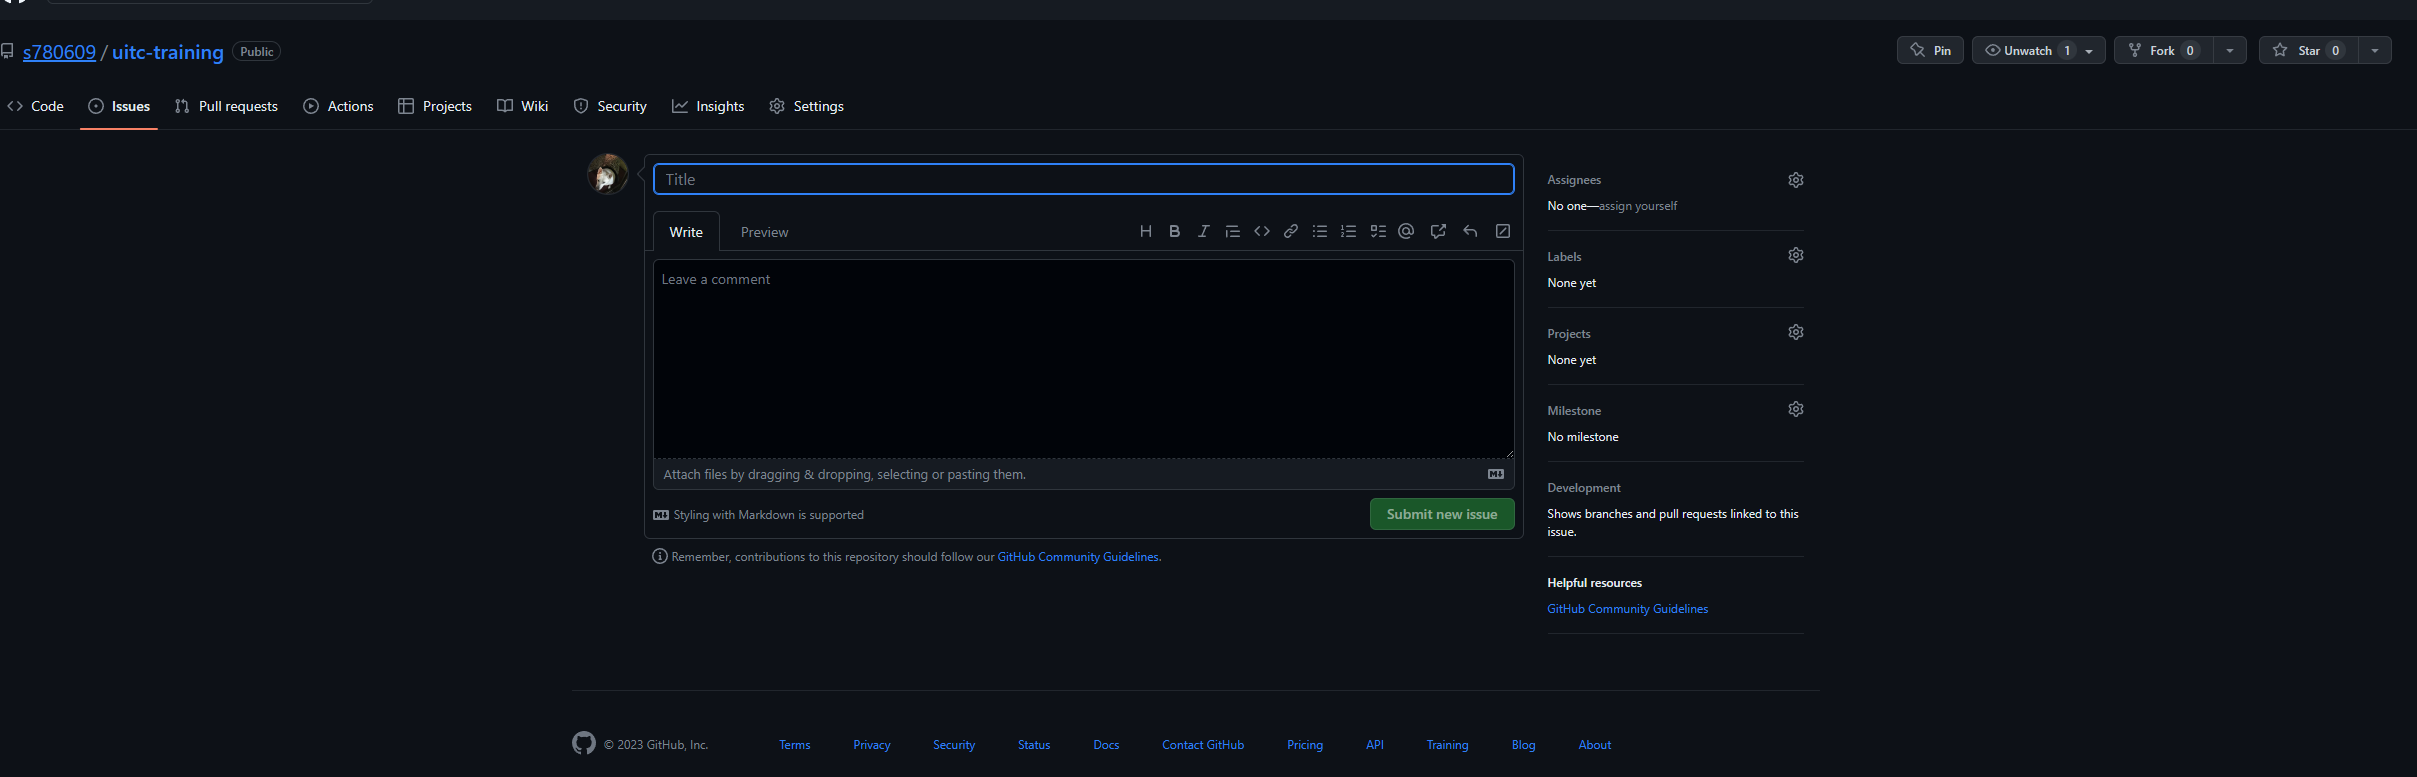
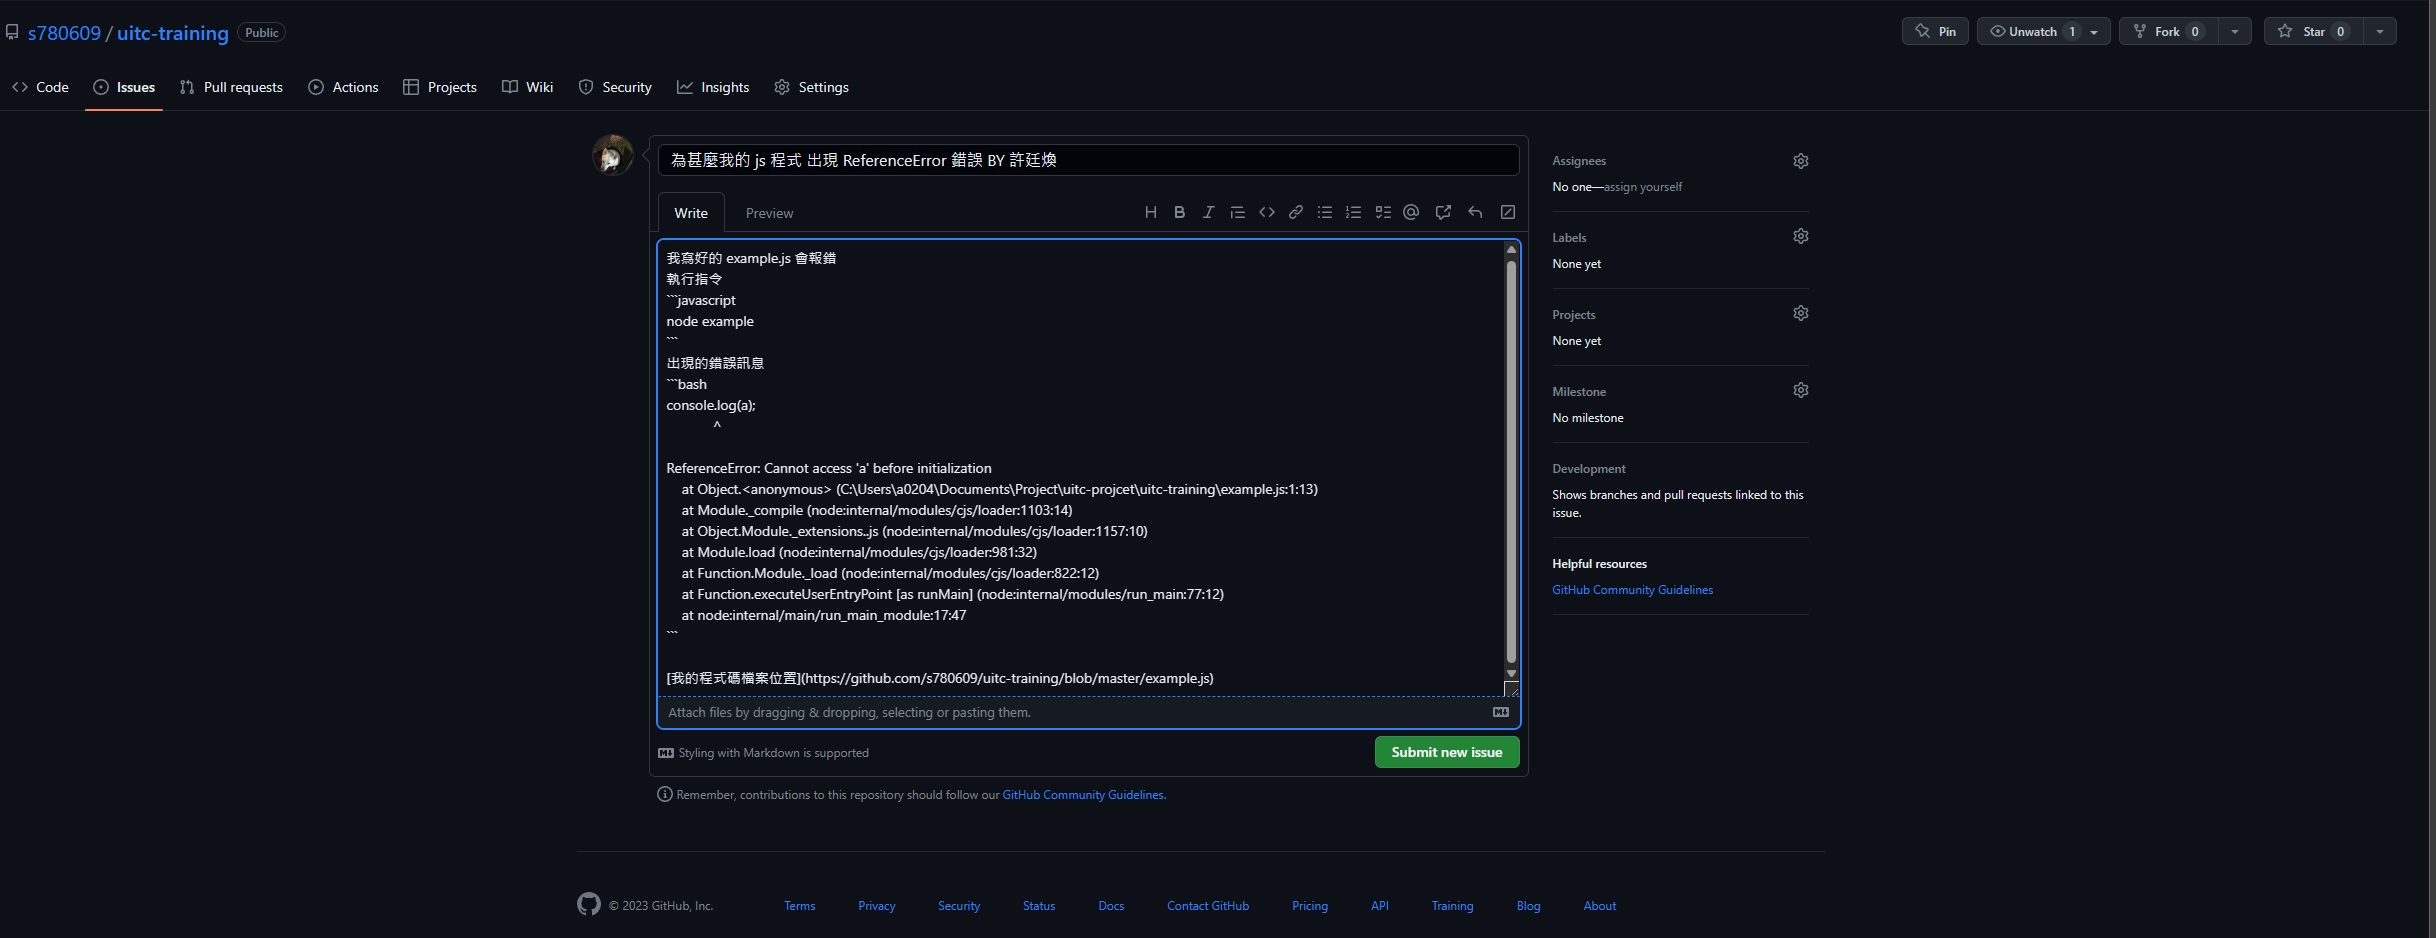
chore: Update README

diff --git a/README.md b/README.md
@@ -10,13 +10,16 @@
 ## 流程
 請先 fork 一份專案到自己的github裡面，並且依照週數順序來完成課程
 
-## 問題
+## 問問題
 有問題的話，而你的mentor又不在，又感覺同事都凶神惡煞(或是他們都在忙XD)，不敢問的話，可以在 issue 那裏開一個 新 issue，詳細描述你遇到的困難或是問題   
 開 issue 位置如下
 ![issue example](./assets/images/issue-example.png)
 
-開新issue請注意以下事項
+### 開新issue請注意以下事項
 * title 要記得寫你是誰
 * 如果問題是程式碼的問題，那最好可以先寫一個能夠重現你的問題的一支程式，並且推上github的這個專案
 * comment 最好可以有你的github連結，方便別人可以先看你是遇到甚麼
 ![new issue](./assets/images/new-issue.png)
+
+### 問問題範例
+[為甚麼我的 js 程式 出現 ReferenceError 錯誤 BY 許廷煥](https://github.com/s780609/uitc-training/issues/1)
